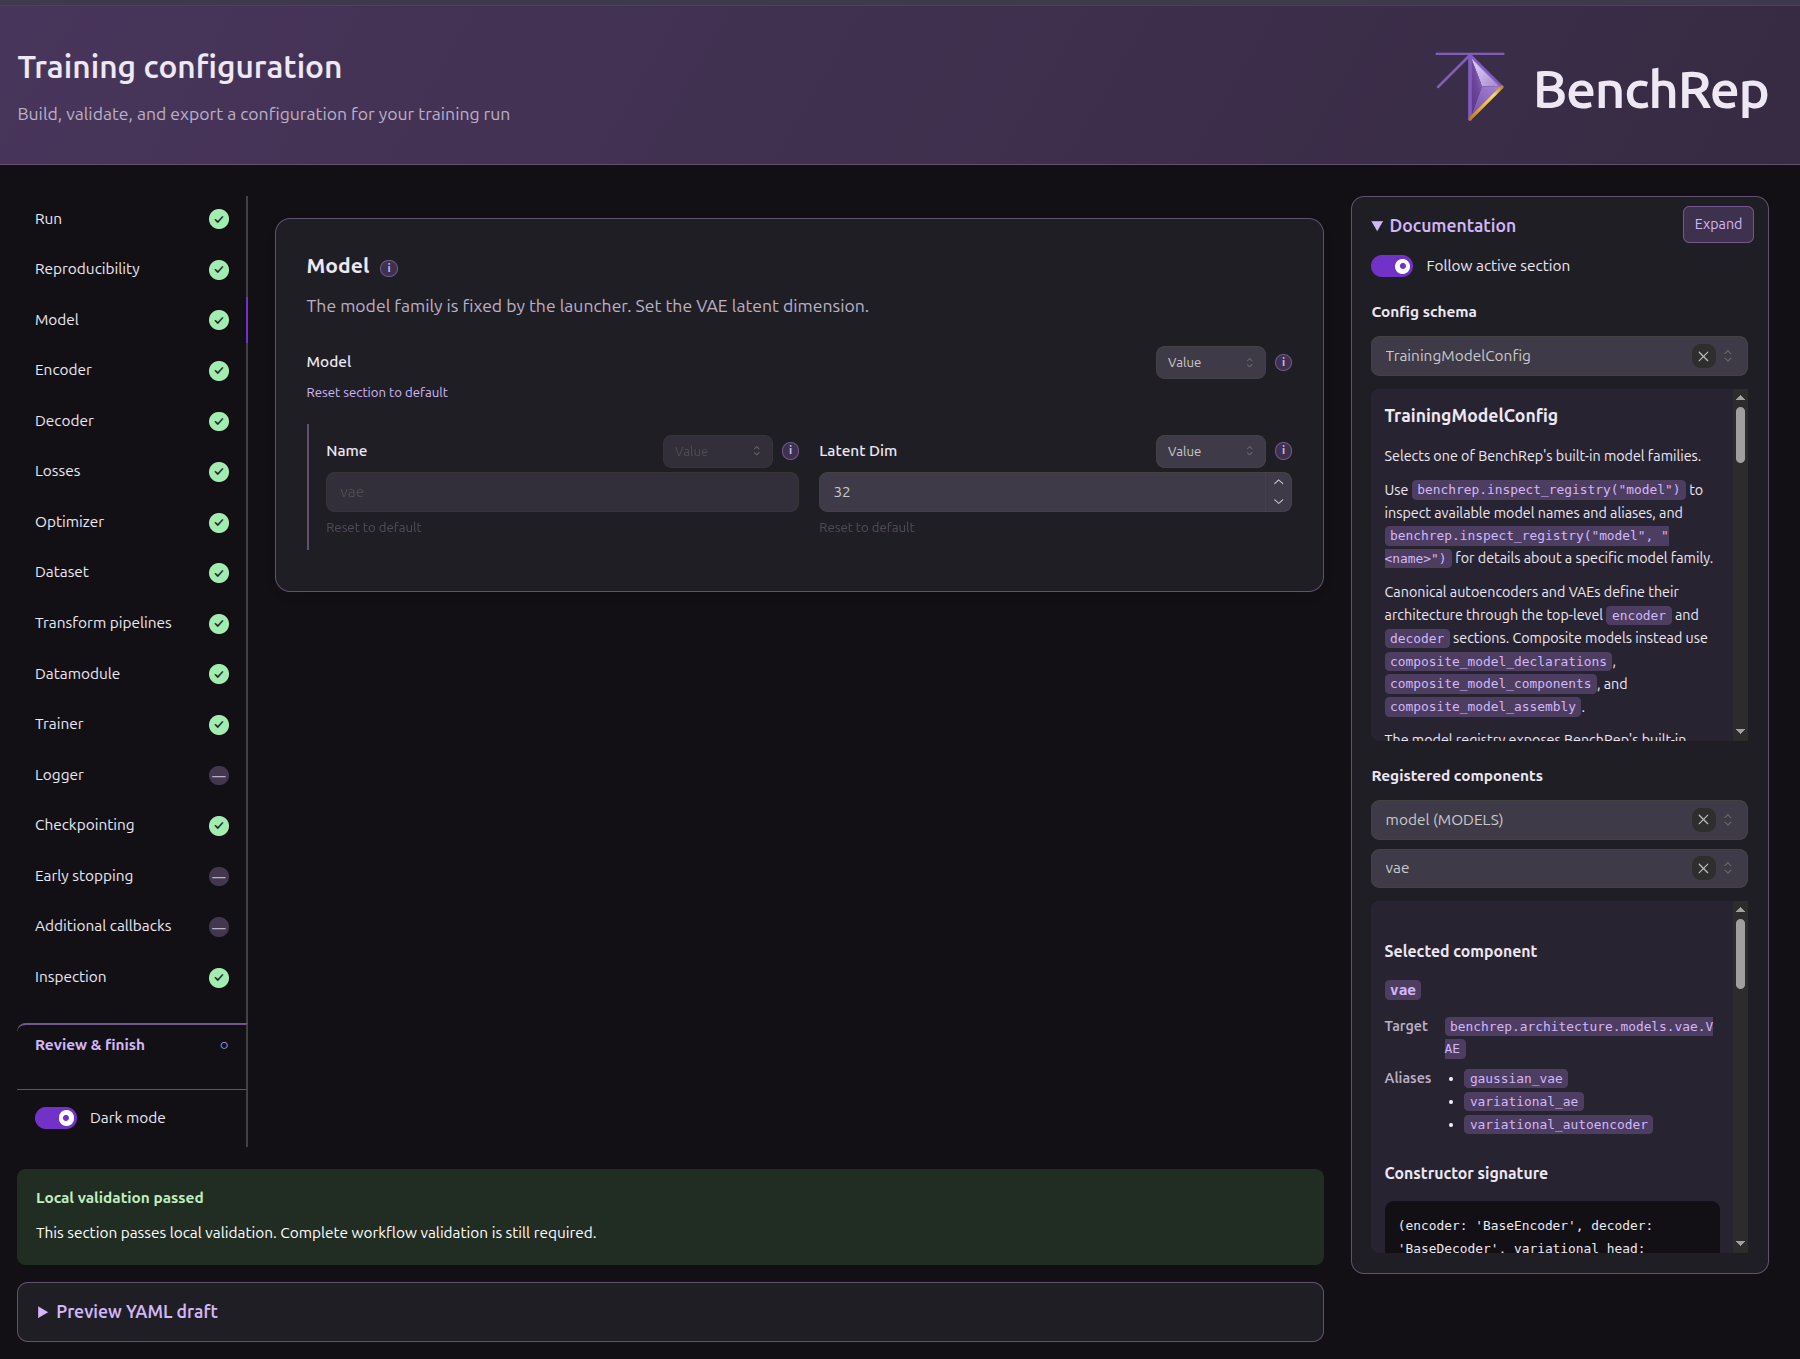
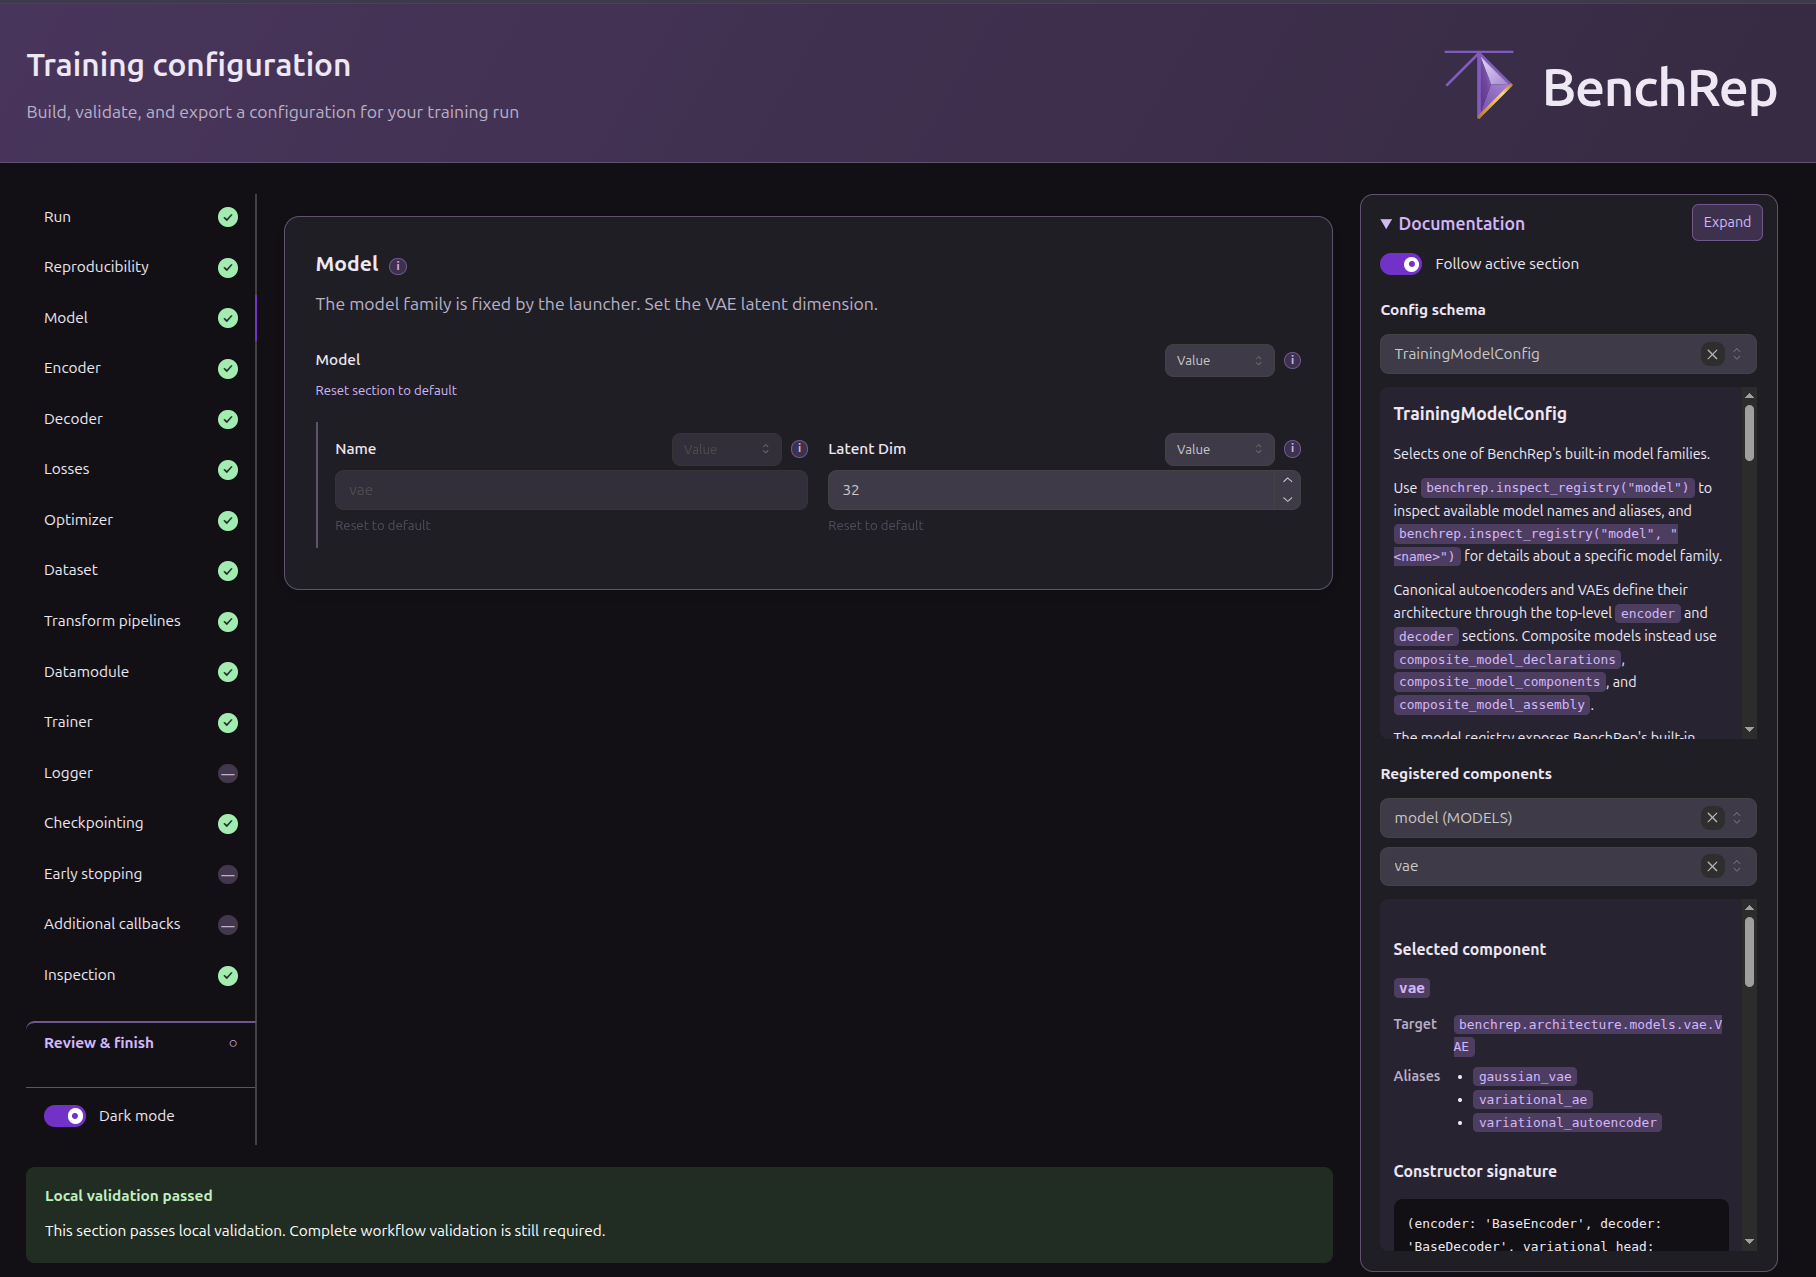
Document how to configure a workflow in the browser
Walk through editing the MNIST VAE config in the training wizard and using the result in the same script. Show how to pass the training manifest to the pred wizard. Refresh the model screenshot and add the review screen to assets.

diff --git a/docs/guides/wizard.md b/docs/guides/wizard.md
@@ -1,3 +1,87 @@
-# Configuration wizard
+# Configure a workflow in the browser
 
-<!-- Add page content here. -->
+Use the training wizard to make the same change as in the [YAML guide](yaml.md): start from the packaged MNIST VAE config, change the latent dimension from 32 to 64, and train with the result. The wizard lets you inspect fields, preview your YAML, and check the complete configuration before you run anything.
+
+<strong class="highlight">Requirements.</strong> Install the `gui` extra if you haven’t already:
+
+```bash
+python -m pip install "benchrep[gui] @ git+https://github.com/uhlmanngroup/BenchRep.git"
+```
+
+## Launch the wizard
+
+```python
+from benchrep import configure_workflow, train_vae
+from benchrep.examples import example_config_path
+from benchrep.interfaces.model_families import VAE_FAMILY
+
+wizard_result = configure_workflow(
+    stage="training",
+    model_family=VAE_FAMILY,
+    config=example_config_path("01_yaml_pipeline", stage="training"),
+    export_directory="wizard_configs/mnist-vae-64",
+)
+```
+
+The launcher opens your browser and prints the local address (by default, <http://127.0.0.1:8050>). To use another port, pass `port=...`.
+
+To start with your own base YAML, pass its path as `config`. Or omit it to start fresh.
+
+For training and prediction, the launcher’s `model_family` determines which model sections you can configure. Here it fixes the model name to VAE. If a base YAML names another family or contains VAE-incompatible sections, the wizard flags the incompatible entries so you can remove them.
+
+## Edit the model section
+
+Select **Model** on the left and change **Latent Dim** to `64`. Open **Preview YAML draft** to see the edit. The **Documentation** panel on the right follows the active section and lets you inspect its schema, registered components, aliases, and constructor signatures.
+
+![Training wizard showing the VAE model section and its documentation panel before the edit.](../assets/configuration-wizard.png)
+
+The field menu distinguishes **Omit** (leave the key out of the YAML), **Null** (write an explicit `null`), **Empty** (supply an empty collection), and **Value** (enter a value). Available choices depend on the field. Omitting, setting to `null`, or setting to `empty` can each produce different behavior. See the Documentation panel for field-specific details.
+
+The sidebar marks locally valid sections in green, errors in red, and valid omitted or null sections with a dash. You can remove unrecognized fields or sections directly in the wizard.
+
+## Review and save
+
+Open **Review & finish** and click **Check configuration** to trigger a workflow-level schema validation and a higher-level validation with a config resolver call. This also checks known dependencies for enabled features, as well as the export destination. This is where a combination of individually valid sections can still fail. Re-checking is required if the draft or export settings are changed.
+
+![Review and finish screen after checking the MNIST VAE training configuration.](../assets/guides/configuration-wizard/review-and-finish.png)
+
+Compare the **Authored YAML** and **Resolved YAML** tabs. The authored version preserves your choices, including which fields you omitted or set to `null`. The resolved version shows the settings BenchRep derived for this environment.
+
+!!! note "Composite model graph"
+    For composite models, **Review & finish** can preview the model wiring before training. To enable the preview, use `benchrep[gui,model_graph]` in the install command above. Run `dot -V` to check whether the Graphviz executable is available. If needed, install [Graphviz for your platform](https://graphviz.org/download/).
+
+Click **Save & finish** to write both YAMLs and return to the Python script.
+
+## Use the result
+
+The call to `configure_workflow()` waits while you edit. Once you save, the next line of the same script can start training with the returned config and overrides:
+
+```python
+if wizard_result is not None:
+    training = train_vae(
+        config=wizard_result.config,
+        # Optional here. This forwards any overrides still needed at runtime,
+        # such as a custom datamodule supplied to the wizard.
+        overrides=wizard_result.overrides,
+    )
+    print(training.manifest_path)
+```
+
+**Cancel** returns `None`, so the snippet skips training. To train later, pass the saved authored YAML path to `train_vae(config=...)`. BenchRep resolves it when the run starts.
+
+## Continue to prediction
+
+After a successful training run, you can open the prediction wizard in the same script. Pass the training manifest through the `overrides` argument to `configure_workflow()`. The wizard uses it during review and returns it in `prediction_wizard_result.overrides`, which you can pass directly to `predict_vae()`.
+
+```python
+from benchrep import PredictionOverrides
+
+prediction_wizard_result = configure_workflow(
+    stage="prediction",
+    model_family=VAE_FAMILY,
+    config=example_config_path("01_yaml_pipeline", stage="prediction"),
+    overrides=PredictionOverrides(training_manifest_path=training.manifest_path),
+)
+```
+
+After prediction, use the same `overrides` argument to pass the prediction manifest to the evaluation wizard. The [chained wizard example](https://github.com/uhlmanngroup/BenchRep/blob/main/examples/usage/08B_dual_input_multitask_composite_vae_wizard.py) shows all 3 stages in one script. For more on editing and validation, see [Using the configuration wizards](../usage/wizards.md).
